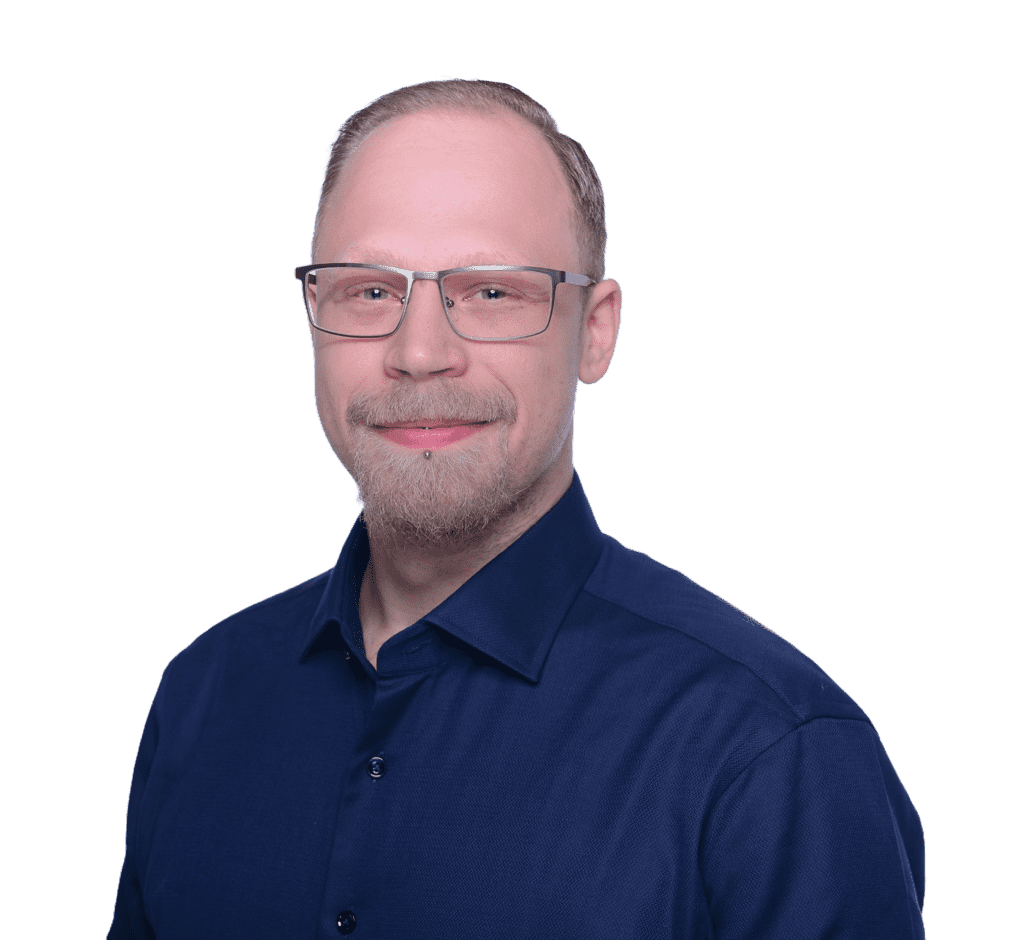
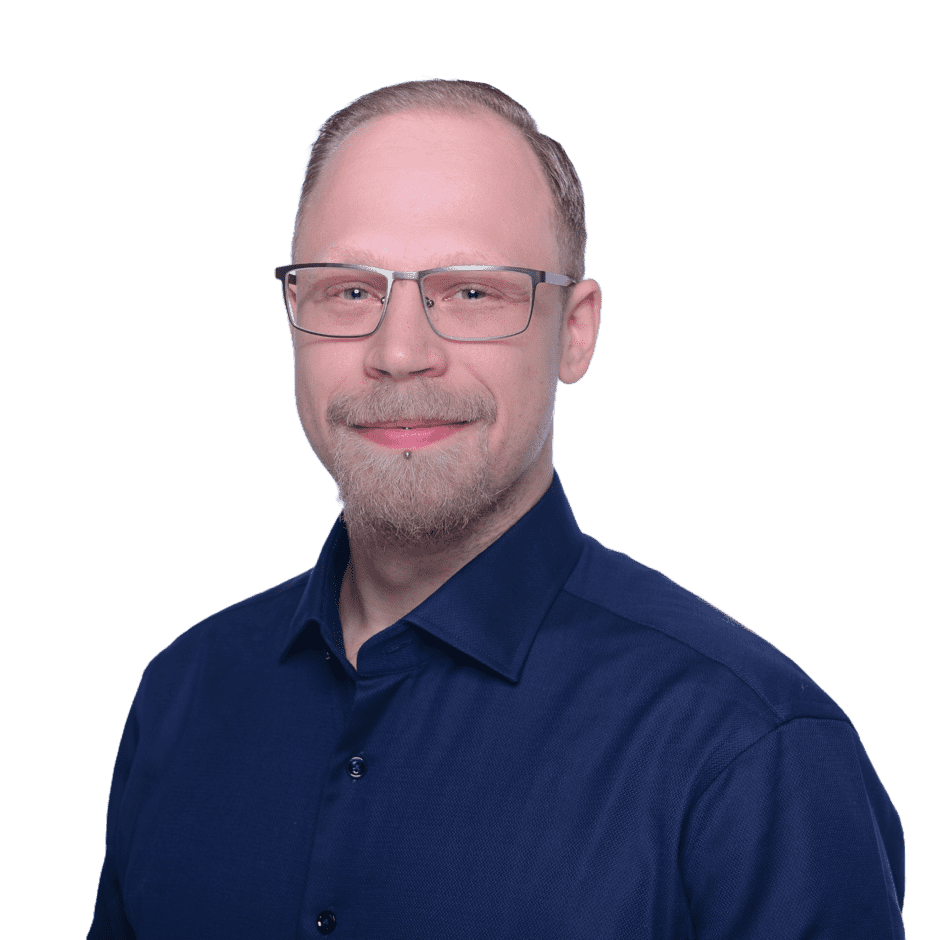
merge

diff --git a/src/app/landingpage/atf-section/atf-section.component.html b/src/app/landingpage/atf-section/atf-section.component.html
@@ -26,7 +26,7 @@
         <img src="/assets/img/icon/github.svg" alt="" (click)="navigateToPage(0)">
         <img src="/assets/img/icon/emailbtn.svg" alt="" (click)="navigateToContact()">
         <img src="/assets/img/icon/linkedin.svg" alt="" (click)="navigateToPage(1)">
-        <a href="mailto:kevin.mueller@tuta.com">kevin.mueller&#64;tuta.com</a>
+        <a href="mailto:info@kevin-mueller-dev.de">info&#64;kevin-mueller-dev.de</a>
     </div>
     <img class="scrolldown" src="/assets/img/scrolldown.png" alt="scrolldown" (click)="navigateToAbout()">
 </div>

diff --git a/src/app/landingpage/atf-section/atf-section.component.scss b/src/app/landingpage/atf-section/atf-section.component.scss
@@ -120,7 +120,7 @@ $header-height: 109px;
     .profile-full {
         position: absolute;
         top: calc(206px - $header-height);
-        left: 0px;
+        left: -80px;
         width: 100%;
         max-width: 850px;
         object-fit: contain;
